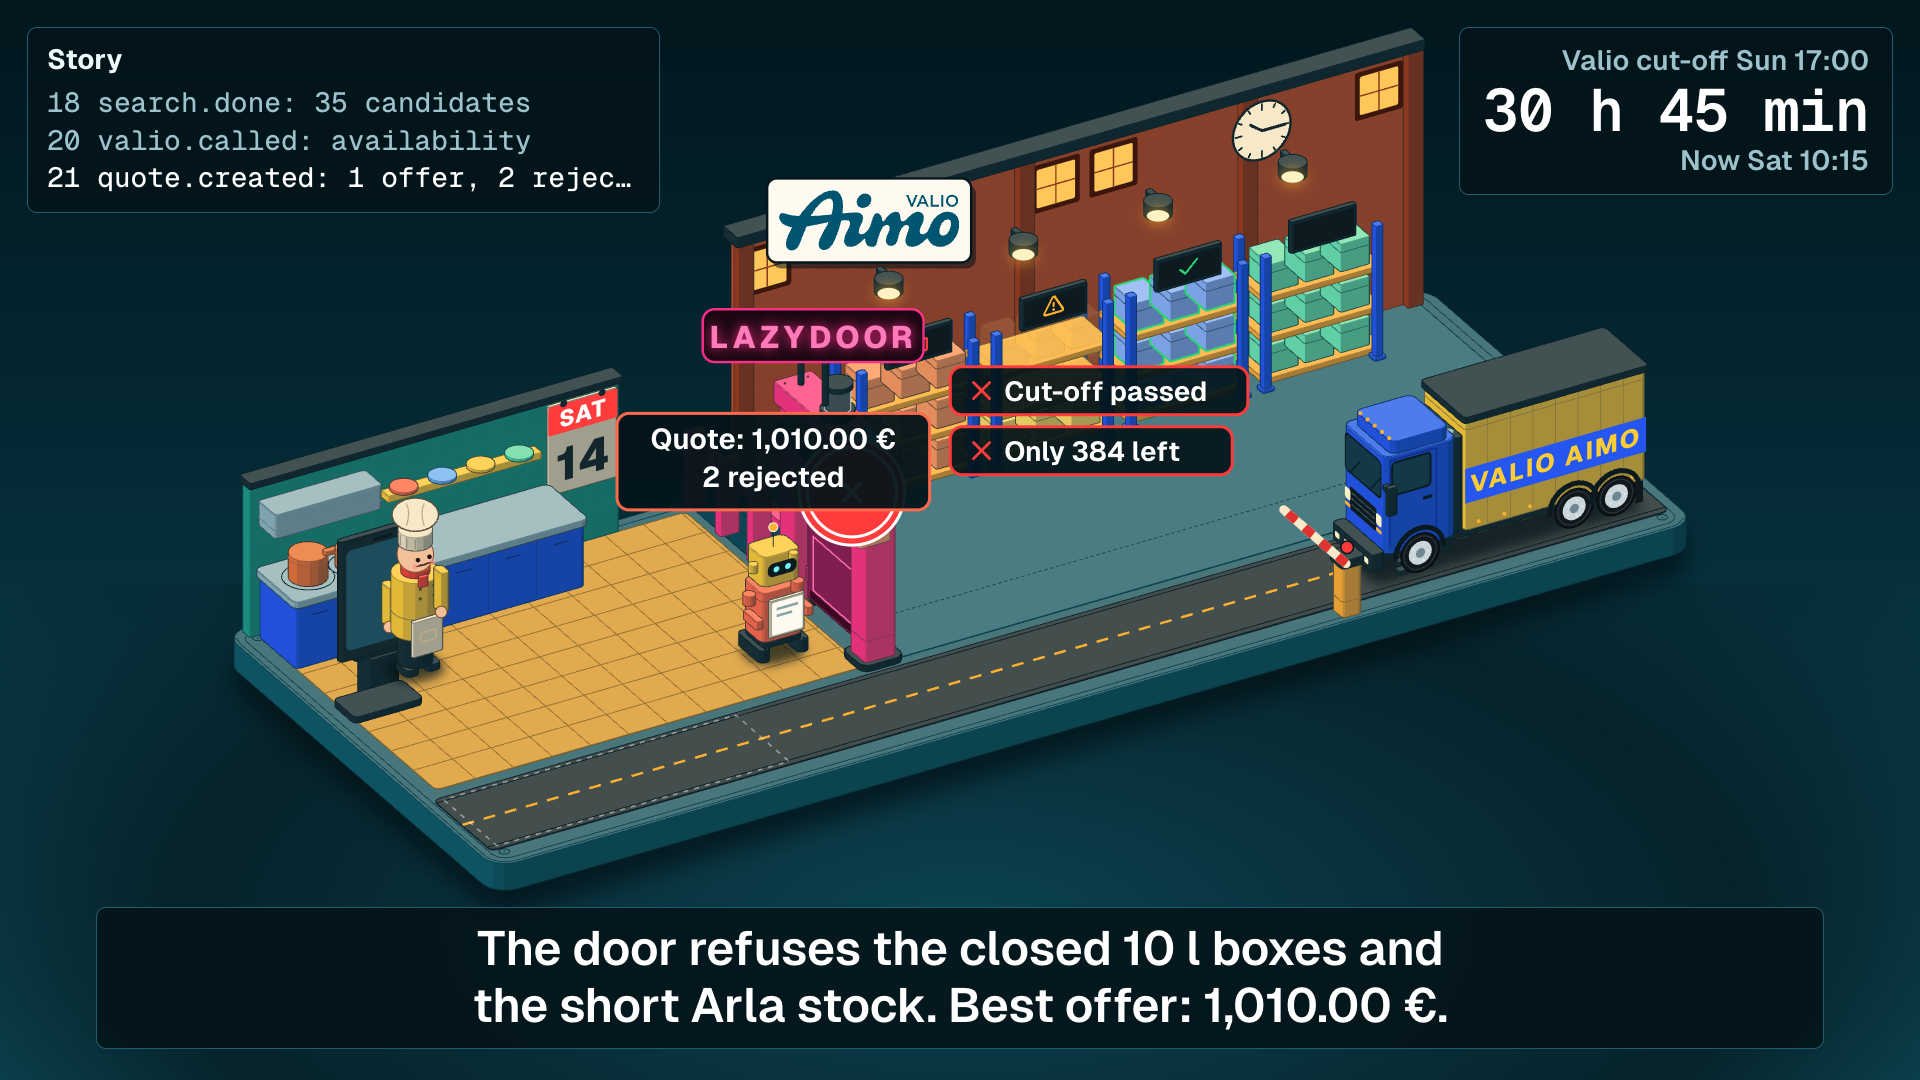
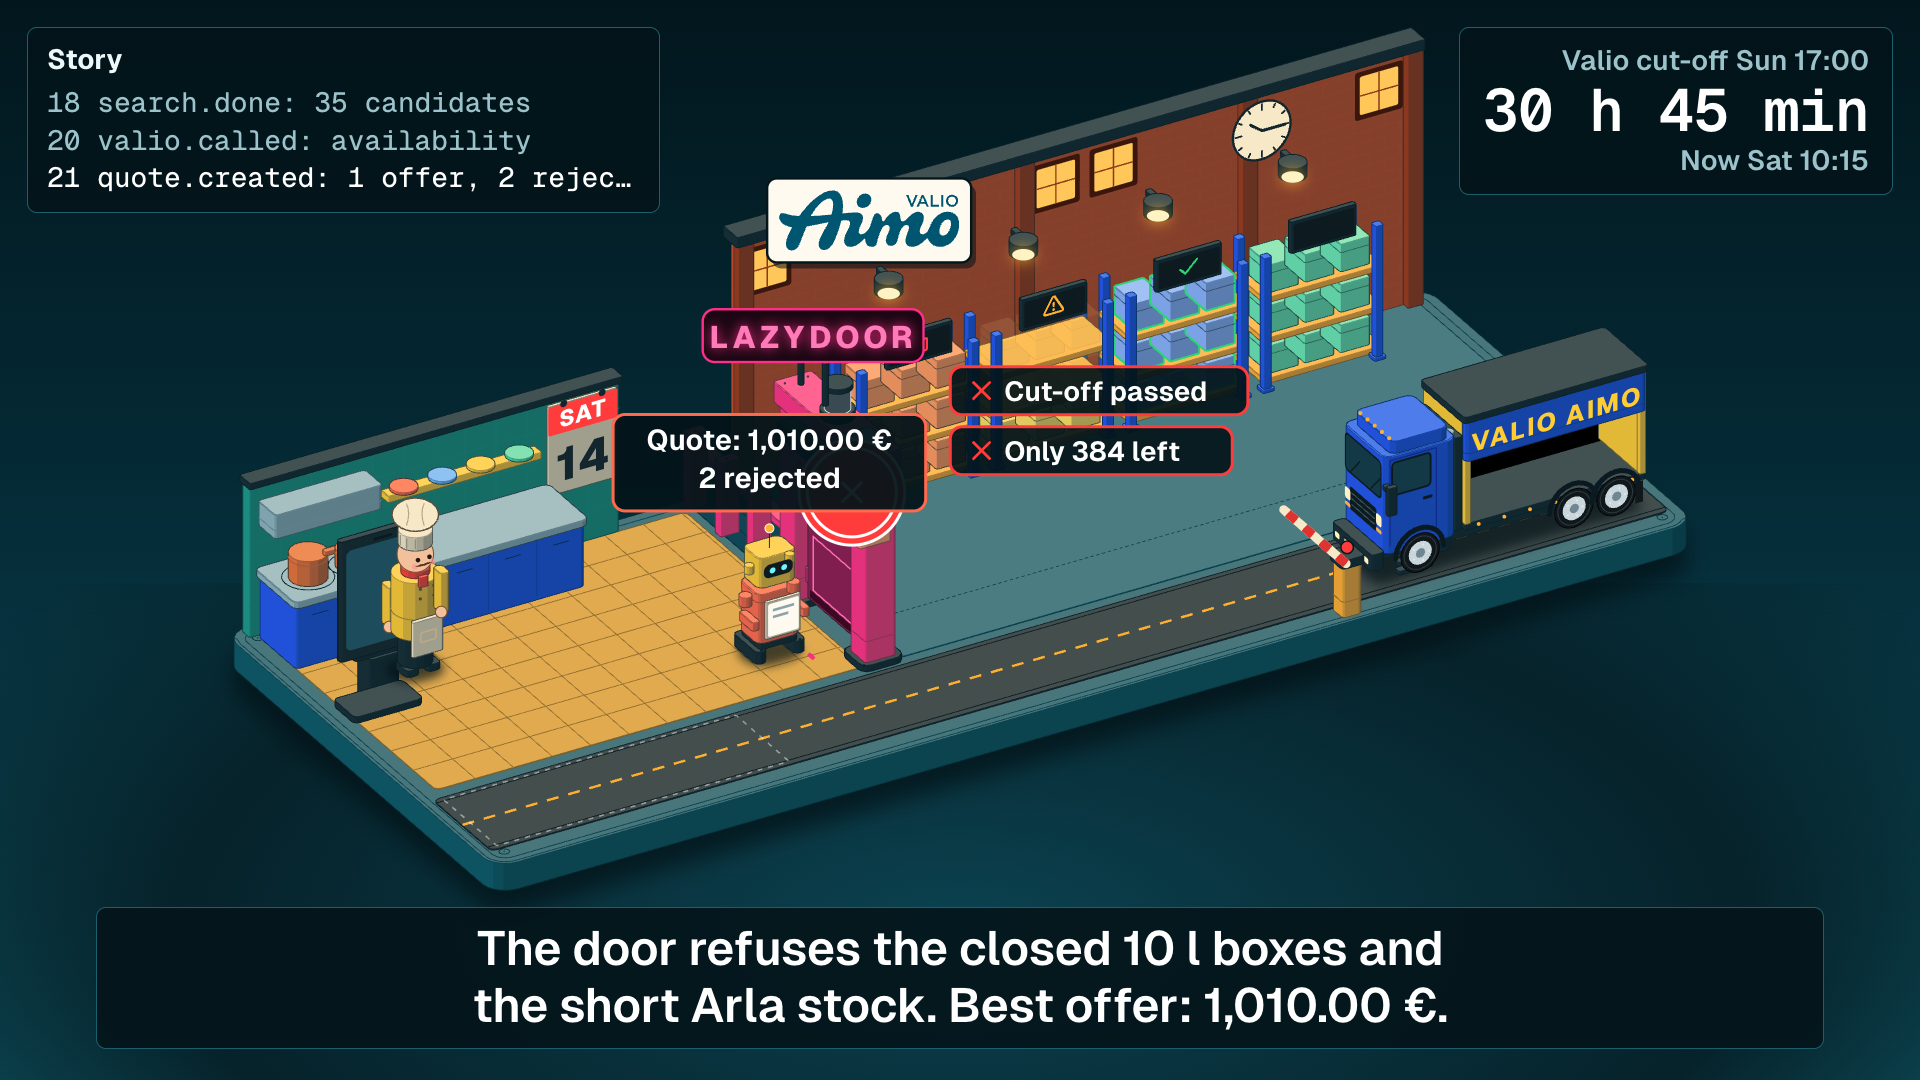
feat(demo): chef acts at the kitchen terminal, open-sided truck with visible load, agent waits outside the door

Changed region(s): [[0.3125, 0.3667, 0.5, 0.6111], [0.75, 0.3361, 0.875, 0.4889]]

diff --git a/demo/demo.css b/demo/demo.css
@@ -313,8 +313,11 @@ body.kiosk .stage { width: min(100vw, 177.78vh); margin: 0 auto; border-radius: 
 .label[data-carry="receipt"] .label-box { stroke: var(--auto); }
 .label[data-carry="question"] .label-box { stroke: var(--hold); }
 .label-text { font-family: var(--sans); font-weight: 650; fill: #fff; text-anchor: middle; }
-.bubble-box { fill: #fffaf0; stroke: #13262e; stroke-width: 2px; }
-.bubble-text { fill: #13262e; font-family: var(--sans); font-weight: 600; }
+.typed-box { fill: rgb(3 20 25 / .94); stroke: #5ff4ff; stroke-width: 2.5px; }
+.typed-text { fill: #fff; font-family: var(--anatomy-mono); font-weight: 600; }
+.mouth { fill: none; stroke: #5a3420; stroke-width: 1.6px; stroke-linecap: round; }
+.stop-line { fill: none; stroke: var(--brand); stroke-width: 4px; stroke-dasharray: 8 6; }
+[data-id="phone"][data-typing] .phone-screen { fill: #5ff4ff; }
 
 @media (prefers-reduced-motion: reduce) { .neon-text { filter: none; } }
 @media (max-width: 640px) { .stage { aspect-ratio: 4 / 3.6; } .hud-events { display: none; } .caption { font-size: 15px; bottom: 2cqw; } .brand .for { display: none; } }

diff --git a/demo/STATUS.md b/demo/STATUS.md
@@ -6,14 +6,13 @@ Nhánh `demo-animation`, thư mục `demo/`. Mới nhất ở dưới.
 
 Mở http://localhost:8790/ (dev server đang chạy, phục vụ thẳng thư mục `demo/`), bấm Play hoặc kéo thanh thời gian. Chưa quay video mới: `demo/story.mp4` vẫn là bản cũ, sẽ quay lại sau khi Kane duyệt.
 
-Cần xem:
-1. 0:15 đến 0:26, agent ngây thơ: thùng của kệ hộp 10 l bị cổng bến từ chối (dấu ✕ đỏ ở bến, nhãn "Cut-off Thu 12 Nov 15:00"), xe không chất hàng, quầy bếp trống. Không còn mây mưa.
-2. 0:44 đến 0:47: cổng Lazydoor từ chối hộp 10 l đã đóng và hàng Arla thiếu (thùng bay tới cổng rồi bật lại, ✕ đỏ ở cổng, lý do "Cut-off passed", "Only 384 left" ngay cạnh cổng); hàng được chọn qua cổng với ✓.
-3. 1:00 đến 1:13, đơn được chấp nhận: thùng lên xe, cổng bến nâng, xe chạy tới bếp, dỡ thùng lên quầy, chef giơ ngón cái, thẻ hoá đơn 1,010.00 €, lịch lật sang MON 16, xe quay về.
-4. Xe tải cận cảnh 1080p: [shots/after-truck.png](shots/after-truck.png) (một khung xe, cabin và thùng cùng trục, bánh chạm đường dưới vòm).
-5. Chữ ở 50%: [shots/after-scene-50pct.png](shots/after-scene-50pct.png).
-6. 0:53 và 1:27 chờ duyệt ("Waiting for approval" ở cổng bến), 1:46 phê duyệt hết hạn: cổng bến đóng, "Approval expired".
-
+Cần xem (bản sửa theo nhận xét lúc 0:23):
+1. 0:01 đến 0:06: chef gõ yêu cầu vào màn hình bếp (màn hình sáng xanh, chữ hiện dần phía trên, tay chef gõ) ([ảnh](shots/after-chef-typing.png)).
+2. 0:10 đến 0:26: agent ngây thơ đi tới trước cổng rồi đứng ngoài; gọi API vòng qua cổng; thùng bị cổng bến từ chối ("Cut-off Thu 12 Nov 15:00"), thùng xe mở hông nhưng trống, chef nhún vai trước quầy trống ([ảnh](shots/after-dock-refusal.png), [xe trống](shots/after-truck-empty.png)).
+3. 0:33 đến 0:47: agent đi tới vạch quét trước cổng và đứng chờ ở đó, không vào kho; cổng từ chối hàng đóng và hàng thiếu ngay tại cổng ([ảnh](shots/after-door-refusal.png)).
+4. 0:53 đến 1:00: chef nhìn màn hình khi cần duyệt (màn hình vàng, chuông), rồi chạm để duyệt.
+5. 1:00 đến 1:13: thùng bay vào xe, nhìn thấy qua hông mở; xe chạy tới bếp, dỡ thùng, chef giơ ngón cái, hoá đơn, lịch MON 16; agent quay về chef ([xe có hàng](shots/after-truck.png), [giao hàng](shots/after-delivery.png)).
+6. 1:46 hết hạn duyệt: cổng bến đóng, chef nhún vai ([ảnh](shots/after-expired.png)).
 
 ## Nhật ký
 
@@ -106,6 +105,11 @@ Vấn đề tìm thấy:
   - Chờ duyệt: cổng bến đóng, đèn vàng, "Waiting for approval". Hết hạn: cổng bến đóng, "Approval expired", xe không chất hàng ([hết hạn](shots/after-expired.png)).
 - Thanh chắn chuyển từ hàng rào ra cổng bến trước đầu xe; bỏ khoá đỏ, đèn báo và dấu X trên kệ (kệ chỉ còn icon trạng thái trên bảng tên).
 - Bản quay 60 khung/giây làm trước nhận xét này nằm ngoài repo và không commit.
+
+### 12. Sửa theo nhận xét lúc 0:23 (chef hành động, thùng xe mở hông, agent đứng ngoài cổng)
+- Chef hành động: gõ yêu cầu vào màn hình bếp (màn hình sáng, chữ gõ dần, tay gõ), nhìn màn hình khi có yêu cầu duyệt và chạm để duyệt, giơ ngón cái khi hàng tới, nhún vai (hai tay ngửa) khi bến từ chối hoặc phê duyệt hết hạn. Màn hình bếp là thiết bị duyệt (chef là người được ủy quyền duyệt), phụ đề đổi theo.
+- Thùng xe: bỏ mặt hông phía người xem, kiểu xe rèm cuốn (rèm cuộn dưới mái, có chữ VALIO AIMO), thấy được 8 chỗ thùng bên trong. Thùng hàng bay vào đúng chỗ khi được chấp nhận, đi cùng xe tới bếp rồi được dỡ ra; khi bến từ chối, xe trống. Vẫn là một xe, một khung gầm.
+- Agent: chỉ đi giữa chef và vạch quét (vạch magenta trước cổng), đứng chờ ở đó, không bao giờ vào phía kho; khi đơn được chấp nhận thì quay về chef. Cánh cổng chỉ mở khi quyết định cho hàng qua. Agent ngây thơ cũng đi tới trước cổng rồi đứng ngoài.
 
 ## Còn lại / cần làm sau
 - Test Live với `wrangler dev` khi `main` có route `/v1/events`, `/v1/events/stream`, `/v1/interpret`; khi đó kiểm tra tên trường trong `sendRequest` (`demo/live.mjs`).
